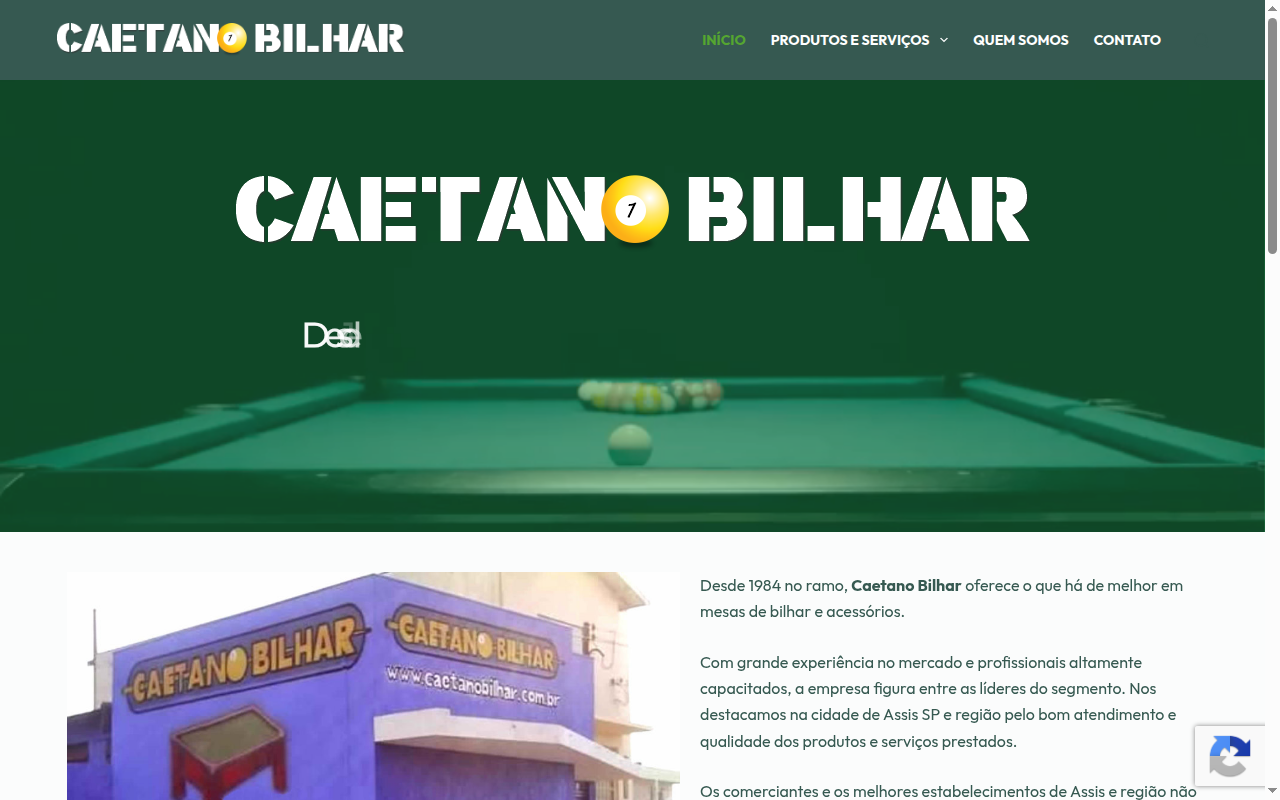
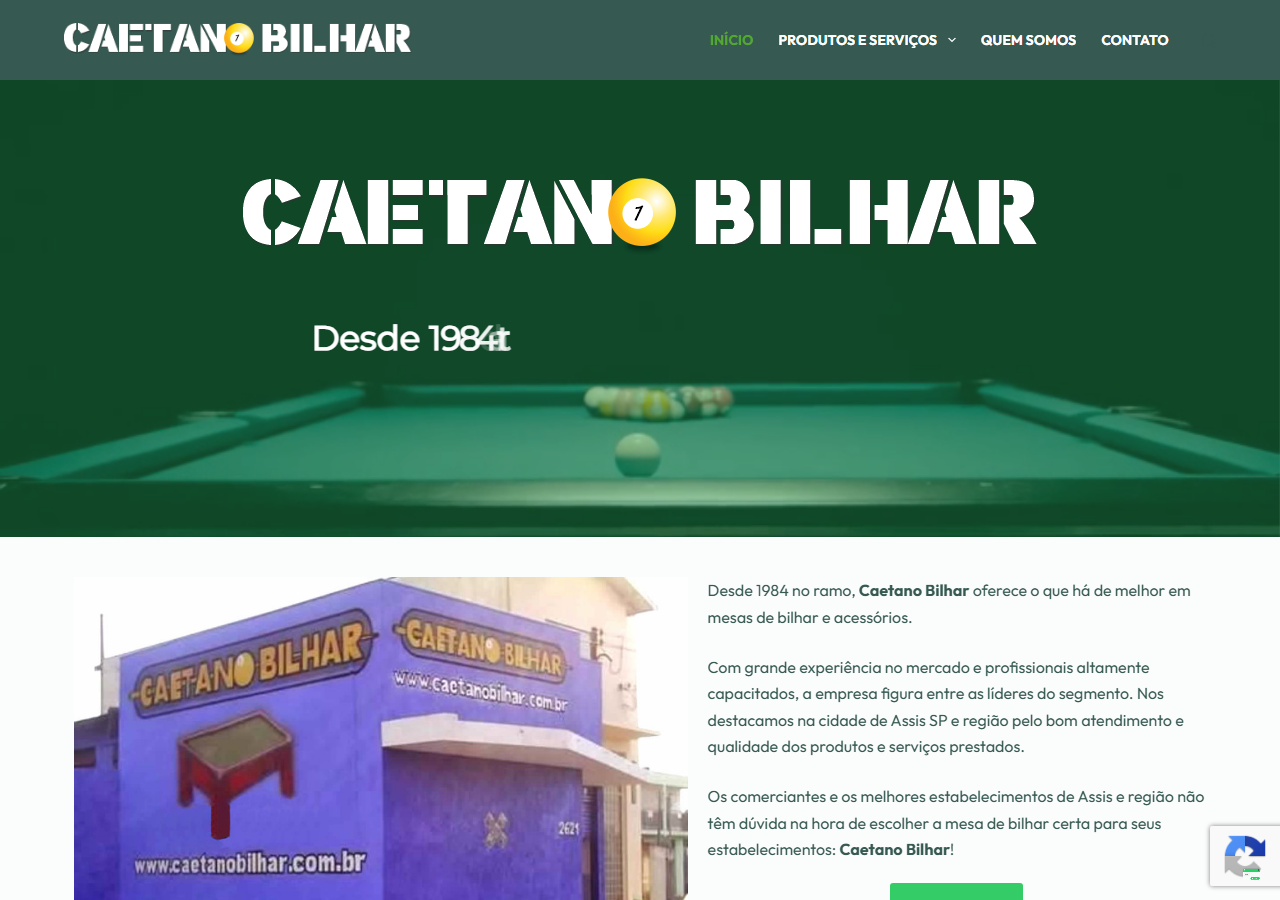
Portfólio atualizado: thumbs + descrições dos 18 sites ativos
- Nova seção de portfólio com screenshot, link e descrição do que foi feito em cada site
- Agrupado por categoria: Aplicações Web & IA, E-commerces, Saúde, Institucionais, Portais
- Screenshots atualizados de todos os sites (ago/2026)
- Novos: Black Bridge, Dafnée Beauty, IF3D, DigitalDreams FM Player, AI Music Prompt Studio
- Removidos (inativos): inexistentman.net, engeferr.com, claudiacaetano.fst.br
- Destaques atualizados (AI Music Prompt Studio) e badges de stack (Next.js, TypeScript, Docker, MySQL, Nginx, Linux)

diff --git a/README.md b/README.md
@@ -36,10 +36,14 @@ Busco oportunidades **CLT 100% remotas** como AI Engineer, Gerente de Projetos d
 ![PHP](https://img.shields.io/badge/PHP-777BB4?style=flat-square&logo=php&logoColor=white)
 ![Python](https://img.shields.io/badge/Python-3776AB?style=flat-square&logo=python&logoColor=white)
 ![React](https://img.shields.io/badge/React-61DAFB?style=flat-square&logo=react&logoColor=black)
+![Next.js](https://img.shields.io/badge/Next.js-000000?style=flat-square&logo=nextdotjs&logoColor=white)
 ![Node.js](https://img.shields.io/badge/Node.js-339933?style=flat-square&logo=node.js&logoColor=white)
+![TypeScript](https://img.shields.io/badge/TypeScript-3178C6?style=flat-square&logo=typescript&logoColor=white)
 ![JavaScript](https://img.shields.io/badge/JavaScript-F7DF1E?style=flat-square&logo=javascript&logoColor=black)
-![HTML5](https://img.shields.io/badge/HTML5-E34F26?style=flat-square&logo=html5&logoColor=white)
-![CSS3](https://img.shields.io/badge/CSS3-1572B6?style=flat-square&logo=css3&logoColor=white)
+![MySQL](https://img.shields.io/badge/MySQL-4479A1?style=flat-square&logo=mysql&logoColor=white)
+![Docker](https://img.shields.io/badge/Docker-2496ED?style=flat-square&logo=docker&logoColor=white)
+![Linux](https://img.shields.io/badge/Linux-FCC624?style=flat-square&logo=linux&logoColor=black)
+![Nginx](https://img.shields.io/badge/Nginx-009639?style=flat-square&logo=nginx&logoColor=white)
 ![cPanel](https://img.shields.io/badge/cPanel-FF6C2C?style=flat-square&logo=cpanel&logoColor=white)
 ![Plesk](https://img.shields.io/badge/Plesk-52BBE6?style=flat-square&logo=plesk&logoColor=white)
 ![Prompt Engineering](https://img.shields.io/badge/Prompt_Engineering-FF6F00?style=flat-square&logo=openai&logoColor=white)
@@ -83,26 +87,57 @@ Busco oportunidades **CLT 100% remotas** como AI Engineer, Gerente de Projetos d
 | Projeto | Destaque |
 |---|---|
 | 🎵 [**DigitalDreams FM**](http://www.digitaldreamsfm.com/) | Rádio web e app Android com 5.000+ músicas geradas por IA. [Google Play](https://play.google.com/store/apps/details?id=com.digitaldreamsfm.player) |
+| 🤖 [**AI Music Prompt Studio**](https://ai-music.viaweb.pro) | SaaS que transforma ideias musicais em prompts técnicos prontos para Suno, Udio, Music Flow e Mureka |
 | 🖨 [**Elite Printers**](https://www.eliteprinters.com.br/) | E-commerce WooCommerce para venda e manutenção de impressoras |
-| 🏢 [**Imóveis Comerciais SP**](https://www.imoveiscomerciaissp.com.br) | Plataforma customizada que impulsionou locação e venda de imóveis comerciais |
 
 ---
 
-## 📂 Portfólio Completo de Sites
+## 📂 Portfólio de Sites
 
-Clique em qualquer imagem para visitar o site:
+Clique na imagem para visitar o site:
 
-|| | |
-|:---:|:---:|:---:|
-| [![Alchemy Recruitment](screenshots/alchemyrecruitment.png)](https://www.alchemyrecruitment.com.au)<br>**Alchemy Recruitment** | [![Arquitetos Urbanistas](screenshots/arq-urb.png)](https://www.arq-urb.com/)<br>**Arquitetos Urbanistas** | [![Blog do Inexistent Man](screenshots/inexistentman.png)](https://www.inexistentman.net/)<br>**Blog do Inexistent Man** |
-| [![BRV360](screenshots/brv360.png)](https://www.brv360.com)<br>**BRV360** | [![Caetano Bilhar](screenshots/caetanobilhar.png)](https://www.caetanobilhar.com.br/)<br>**Caetano Bilhar** | [![Clínica Carlos Gomes](screenshots/clinicacarlosgomes.png)](https://www.clinicacarlosgomes.med.br)<br>**Clínica Carlos Gomes** |
-| [![Criativo de Galochas](screenshots/criativodegalochas.png)](http://www.criativodegalochas.com.br/)<br>**Criativo de Galochas** | [![Digital Copy Soluções](screenshots/digitalcopy.png)](http://www.digitalcopysolucoes.com/)<br>**Digital Copy Soluções** | [![DigitalDreams FM](screenshots/digitaldreamsfm.png)](http://www.digitaldreamsfm.com/)<br>**DigitalDreams FM** |
-| [![Egecon Garantidora](screenshots/egecon.png)](https://www.egecongarantidora.com)<br>**Egecon Garantidora** | [![Engeferr Estruturas Metálicas](screenshots/engeferr.png)](https://www.engeferr.com)<br>**Engeferr Estruturas Metálicas** | [![Elite Printers](screenshots/eliteprinters.png)](https://www.eliteprinters.com.br/)<br>**Elite Printers** |
-| [![Fisioterapeuta Claudia Caetano](screenshots/claudiacaetano.png)](https://www.claudiacaetano.fst.br/)<br>**Fisioterapeuta Claudia Caetano** | [![Gobbi & Lanziotti](screenshots/gobbilanziotti.png)](https://www.gobbilanziotti.com.br/)<br>**Gobbi & Lanziotti** | [![Gráfica Moreno](screenshots/graficamoreno.png)](https://www.graficamoreno.com.br)<br>**Gráfica Moreno** |
-| [![Imóveis Comerciais SP](screenshots/imoveiscomerciais.png)](https://www.imoveiscomerciaissp.com.br)<br>**Imóveis Comerciais SP** | [![Integra Psicologia](screenshots/integrapsicologia.png)](https://www.integrapsicologia.com.br)<br>**Integra Psicologia** | [![Maringá Manchete](screenshots/maringamanchete.png)](https://www.maringamanchete.com.br/)<br>**Maringá Manchete** |
-| [![Orçamentti](screenshots/orcamentti.png)](https://www.orcamentti.com/)<br>**Orçamentti** | [![Pavan Fotografia](screenshots/pavanfotografia.png)](http://www.mvpavan.com.br/)<br>**Pavan Fotografia** | [![Plantão Maringá](screenshots/plantaomaringa.png)](https://www.plantaomaringa.com)<br>**Plantão Maringá** |
-| [![Podologia Cláudia Caetano](screenshots/podologiamaringa.png)](https://www.podologamaringa.com.br)<br>**Podologia Cláudia Caetano** | [![Podologista Elaine Amaral](screenshots/podologistaelaine.png)](https://www.maringapodologia.com.br/)<br>**Podologista Elaine Amaral** | [![Prospec Brindes](screenshots/prospecbrindes.png)](https://www.prospecbrindes.com.br)<br>**Prospec Brindes** |
-| [![Sepultados.com](screenshots/sepultados.png)](https://www.sepultados.com/)<br>**Sepultados.com** | [![TextWizard](screenshots/textwizard.png)](https://www.textwizard.tools)<br>**TextWizard** |  |
+### 🤖 Aplicações Web & IA
+
+| Screenshot | Site | O que foi realizado |
+|:---:|:---|:---|
+| [<img src="screenshots/digitaldreamsfm.png" width="220" alt="DigitalDreams FM">](http://www.digitaldreamsfm.com/) | [**DigitalDreams FM**](http://www.digitaldreamsfm.com/) | Rádio web 24/7 com música **100% gerada por IA**: site institucional (WordPress), web player (Next.js) e app Android publicado no Google Play, com mais de 5.000 músicas, sistema de votação, comentários e perfis de ouvintes. |
+| [<img src="screenshots/player-digitaldreamsfm.png" width="220" alt="DigitalDreams FM Player">](https://player.digitaldreamsfm.com) | [**DigitalDreams FM Player**](https://player.digitaldreamsfm.com) | Web player em Next.js com streaming contínuo 24/7, integrado ao site e ao app Android da DigitalDreams FM. |
+| [<img src="screenshots/ai-music-viaweb.png" width="220" alt="AI Music Prompt Studio">](https://ai-music.viaweb.pro) | [**AI Music Prompt Studio**](https://ai-music.viaweb.pro) | SaaS em Next.js que converte ideias musicais em prompts técnicos estruturados (BPM, gênero, instrumentação, mixagem) para **Suno, Udio, Music Flow, Mureka e Happy Shrimp**, com múltiplos provedores de IA (OpenRouter/Groq), autenticação e deploy automatizado em VPS. |
+| [<img src="screenshots/textwizard.png" width="220" alt="TextWizard">](https://www.textwizard.tools) | [**TextWizard**](https://www.textwizard.tools) | Suite de ferramentas de texto gratuitas (conversão, encoding, formatação e manipulação) **100% no navegador, sem login**, construída em Next.js/TypeScript. |
+
+### 🛒 E-commerces (WooCommerce)
+
+| Screenshot | Site | O que foi realizado |
+|:---:|:---|:---|
+| [<img src="screenshots/dafneebeauty.png" width="220" alt="Dafnee Beauty">](https://www.dafneebeauty.com) | [**Dafnée Beauty**](https://www.dafneebeauty.com) | E-commerce de cosméticos e beleza: catálogo de produtos, checkout com parcelamento em até 12x, frete para todo o Brasil com retirada em Maringá, integração com WhatsApp e assessoria farmacêutica. |
+| [<img src="screenshots/eliteprinters.png" width="220" alt="Elite Printers">](https://www.eliteprinters.com.br/) | [**Elite Printers**](https://www.eliteprinters.com.br/) | E-commerce + serviços para o mercado de impressão: venda de impressoras usadas e revisadas, peças, suprimentos e manutenção em Maringá. |
+| [<img src="screenshots/if3d.png" width="220" alt="IF3D">](https://www.if3d.com.br) | [**IF3D**](https://www.if3d.com.br) | E-commerce de filamentos para impressão 3D (PLA, PETG, ABS, TPU) e impressoras (Bambu Lab, Flashforge): catálogo completo, parcelamento em 12x, envio para todo o Brasil e migração de infraestrutura de hospedagem. |
+| [<img src="screenshots/graficamoreno.png" width="220" alt="Gráfica Moreno">](https://www.graficamoreno.com.br) | [**Gráfica Moreno**](https://www.graficamoreno.com.br) | Site institucional + catálogo WooCommerce de embalagens e materiais gráficos (caixas personalizadas, tags para roupas, triedos, folhetos, envelopes), com orçamento via WhatsApp. |
+
+### 🏥 Saúde & Bem-estar
+
+| Screenshot | Site | O que foi realizado |
+|:---:|:---|:---|
+| [<img src="screenshots/clinicacarlosgomes.png" width="220" alt="Clínica Carlos Gomes">](https://www.clinicacarlosgomes.med.br) | [**Clínica Carlos Gomes**](https://www.clinicacarlosgomes.med.br) | Site institucional de clínica multidisciplinar em Maringá: especialidades, corpo clínico, convênios e agendamento de consultas, com foco em SEO local e conversão. |
+| [<img src="screenshots/podologamaringa.png" width="220" alt="Podóloga Cláudia Caetano">](https://www.podologamaringa.com.br/) | [**Podóloga Cláudia Caetano**](https://www.podologamaringa.com.br/) | Site profissional de podologia: apresentação de serviços, diferenciais e agendamento direto via WhatsApp, otimizado para busca local em Maringá. |
+| [<img src="screenshots/podologistaelaine.png" width="220" alt="Podóloga Elaine Amaral">](https://www.maringapodologia.com.br/) | [**Podóloga Elaine Amaral**](https://www.maringapodologia.com.br/) | Site profissional com catálogo de tratamentos (fotobiomodulação, onicocriptose, pés diabéticos, verruga plantar), atendimento home care e agendamento via WhatsApp. |
+| [<img src="screenshots/integrapsicologia.png" width="220" alt="Integra Psicologia">](https://www.integrapsicologia.com.br) | [**Integra Psicologia**](https://www.integrapsicologia.com.br) | Site de consultório de psicologia: psicoterapia online e presencial para adultos e adolescentes, terapia individual, de casal/familiar, avaliação psicológica e grupos terapêuticos, com agendamento. |
+
+### 🏢 Institucionais & Serviços
+
+| Screenshot | Site | O que foi realizado |
+|:---:|:---|:---|
+| [<img src="screenshots/blackbridgebusiness.png" width="220" alt="Black Bridge Business">](https://blackbridgebusiness.com) | [**Black Bridge Business**](https://blackbridgebusiness.com) | Site institucional de consultoria em exportação e importação de commodities: apresentação de serviços de viabilidade financeira e logística, com apelo visual corporativo e foco em geração de leads. |
+| [<img src="screenshots/caetanobilhar.png" width="220" alt="Caetano Bilhar">](https://www.caetanobilhar.com.br/) | [**Caetano Bilhar**](https://www.caetanobilhar.com.br/) | Site institucional com vitrine de mesas de bilhar novas e usadas, locação, reforma e acessórios, otimizado para busca local em Assis e região. |
+| [<img src="screenshots/digitalcopy.png" width="220" alt="Digital Copy Soluções">](http://www.digitalcopysolucoes.com/) | [**Digital Copy Soluções**](http://www.digitalcopysolucoes.com/) | Site de locação de impressoras em Maringá: planos e benefícios de redução de custos, suporte especializado e formulário de orçamento. |
+| [<img src="screenshots/gobbilanziotti.png" width="220" alt="Gobbi & Lanziotti">](https://www.gobbilanziotti.com.br/) | [**Gobbi & Lanziotti**](https://www.gobbilanziotti.com.br/) | Site institucional de empresa de cobranças: soluções (departamento jurídico, cobrança extrajudicial e judicial), diferenciais, carteira de clientes e atendimento via WhatsApp. |
+| [<img src="screenshots/egecon.png" width="220" alt="Egecon Garantidora">](https://www.egecongarantidora.com) | [**Egecon Garantidora**](https://www.egecongarantidora.com) | Site de garantidora condominial: soluções de gestão, cobrança de taxas e combate à inadimplência, com posicionamento para o mercado de Maringá-PR. |
+
+### 📰 Portais & Mídia
+
+| Screenshot | Site | O que foi realizado |
+|:---:|:---|:---|
+| [<img src="screenshots/maringamanchete.png" width="220" alt="Maringá Manchete">](https://www.maringamanchete.com.br/) | [**Maringá Manchete**](https://www.maringamanchete.com.br/) | Portal de notícias de Maringá e região: estrutura editorial com categorias, redação diária, SEO on-page e performance para alto volume de conteúdo. |
 
 ---
 
